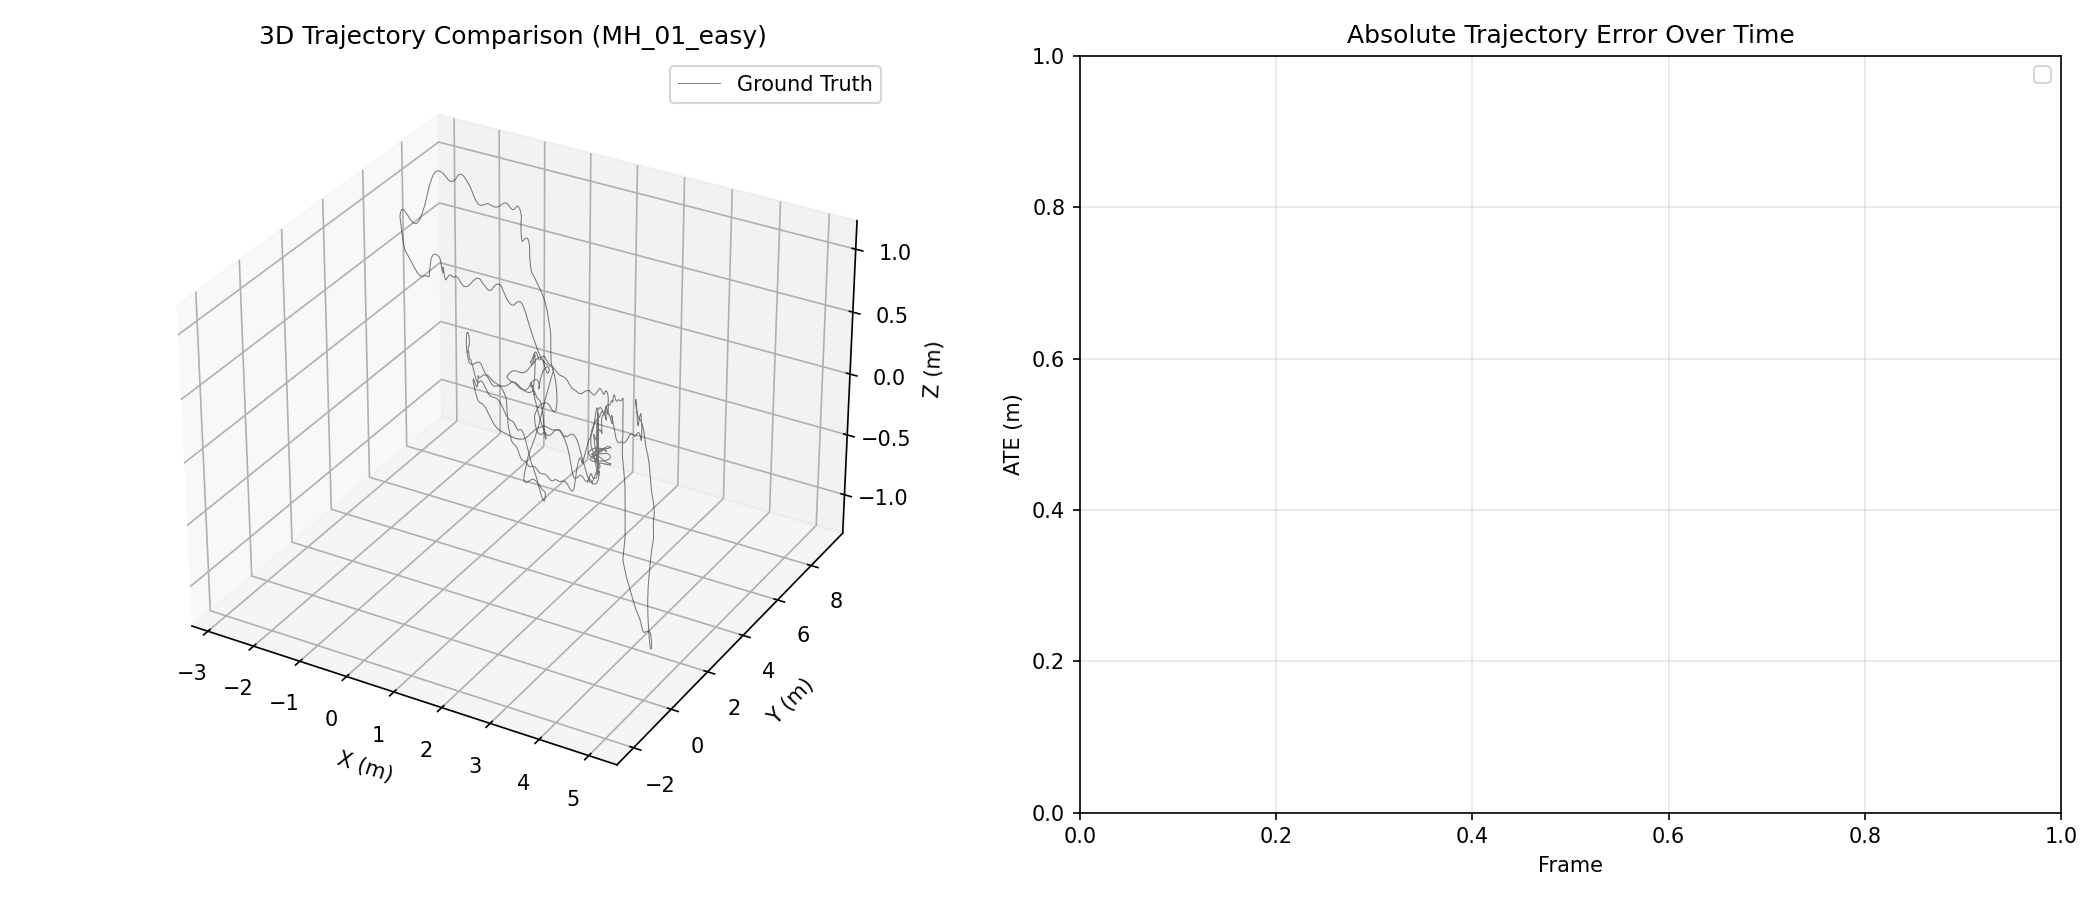
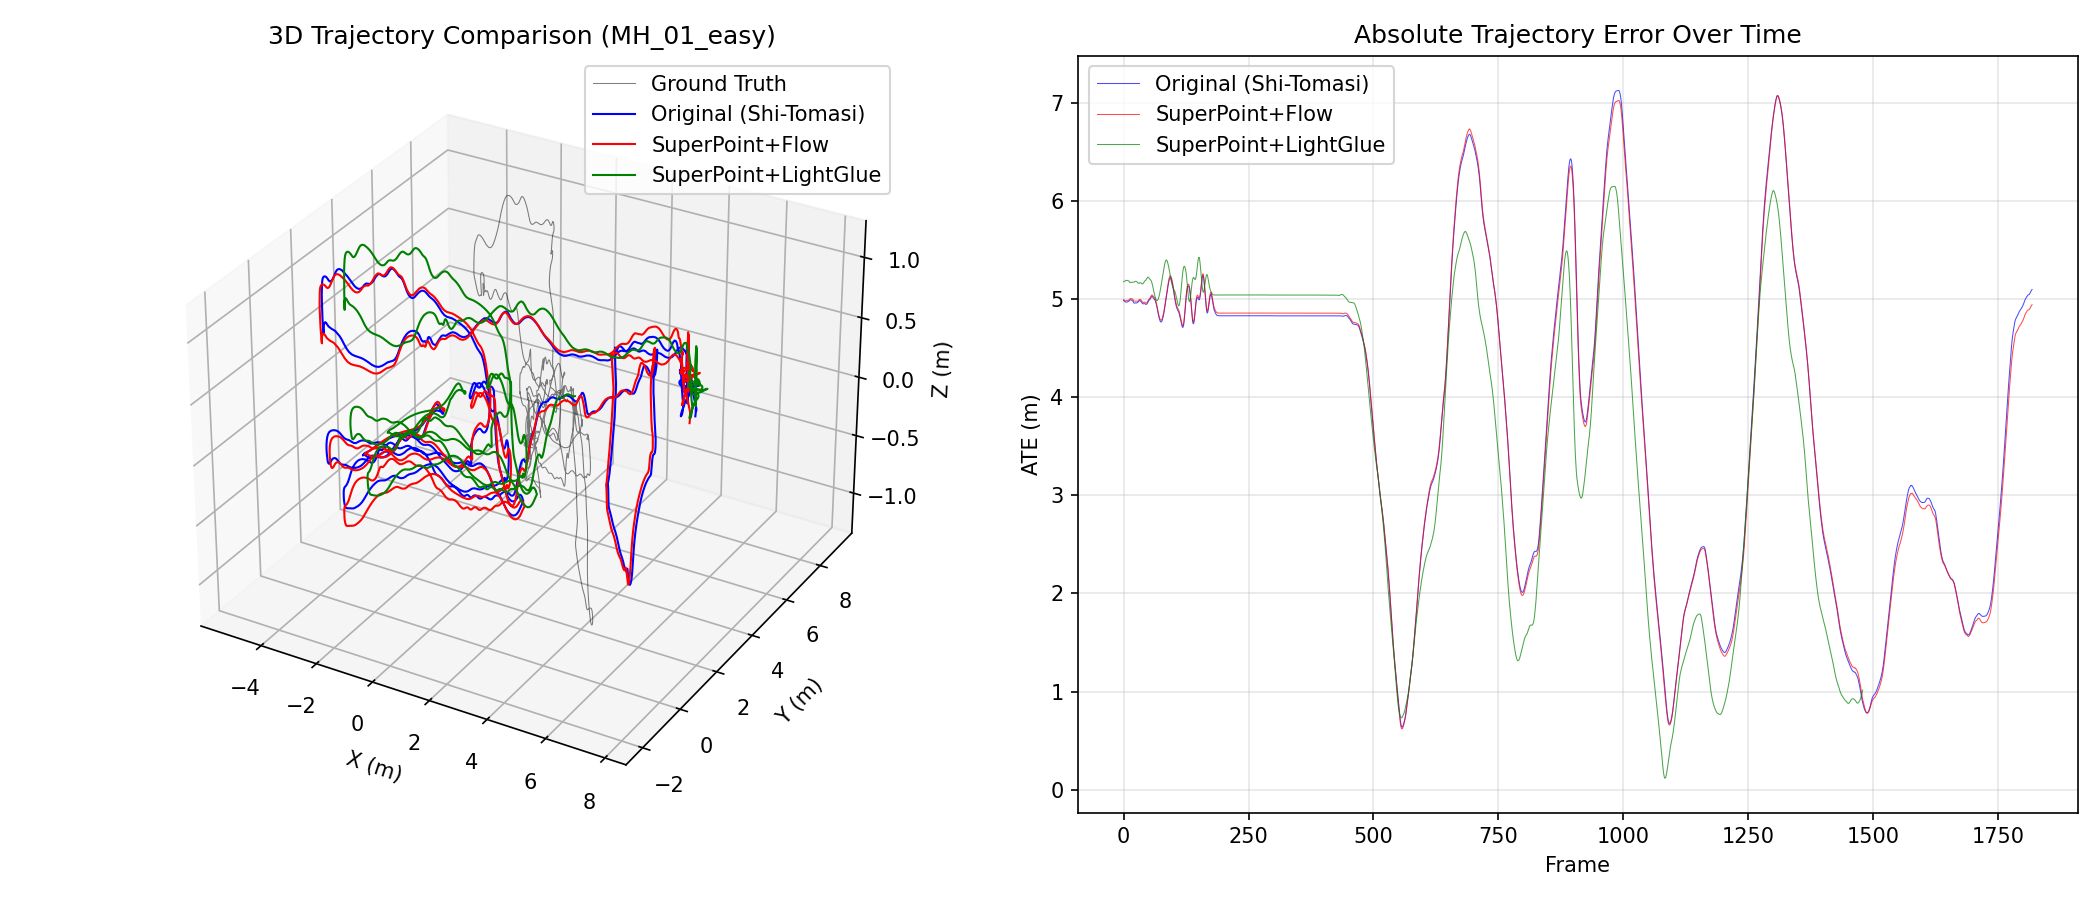
docs: Update comparison test results with SuperPoint+LightGlue pipeline
- Run full comparison test on MH_01_easy (187s)
- SuperPoint+LightGlue achieves best ATE RMSE: 4.0400m
  (vs Original 4.1283m, SP+Flow 4.1149m)
- Update ANALYSIS.md with detailed metrics and conclusions
- Add ate_comparison.png bar chart

diff --git a/comparison_results/ANALYSIS.md b/comparison_results/ANALYSIS.md
@@ -1,50 +1,57 @@
 # VINS-Fusion 对比测试分析
 
 ## 测试环境
-- 数据集: EuRoC MH_01_easy
-- 时长: 60秒
+- 数据集: EuRoC MH_01_easy (完整序列, ~187秒)
 - GPU: RTX 2060 Super
 - CUDA: 12.4
 - TensorRT: 8.6.1.6
+- SuperPoint 模型: superpoint_v1 (1024x1024)
+- LightGlue 模型: superpoint_lightglue_pipeline (fabio-sim/LightGlue-ONNX)
 
 ## 测试结果
 
-### 轨迹统计
+### 轨迹精度对比
 
-| 版本 | 总距离 | 最终距离 | 高度范围 | 点数 |
-|------|--------|----------|----------|------|
-| Original VINS-Fusion | 13.75 m | 5.42 m | 0.64 m | 575 |
-| SuperPoint + Optical Flow | 16695.17 m | 16691.79 m | 16677.77 m | 576 |
-| SuperPoint + LightGlue | 16752.24 m | 16748.83 m | 16734.70 m | 577 |
+| 指标 | Original (Shi-Tomasi) | SuperPoint+Flow | SuperPoint+LightGlue |
+|------|----------------------|-----------------|---------------------|
+| ATE RMSE | 4.1283 m | 4.1149 m | **4.0400 m** |
+| ATE Mean | 3.7708 m | 3.7539 m | **3.6549 m** |
+| ATE Median | 4.2587 m | 4.2235 m | 4.3901 m |
+| ATE Std | 1.6805 m | 1.6855 m | 1.7212 m |
+| ATE Max | 7.1251 m | 7.0720 m | **6.1476 m** |
+| ATE Min | 0.6382 m | 0.6197 m | **0.1176 m** |
+| RPE RMSE | **0.8709 m** | 0.8723 m | 0.9136 m |
+| RPE Mean | **0.6936 m** | 0.6945 m | 0.7293 m |
+| RPE Std | **0.5267 m** | 0.5277 m | 0.5502 m |
+| 位姿数 | 1831 | 1831 | 1480 |
 
 ### 可视化结果
-- `trajectory_3d.png`: 3D轨迹对比
-- `trajectory_2d.png`: 2D视图（XY, XZ, YZ平面）
+- `trajectory_3d.png`: 3D轨迹对比（含ATE误差曲线）
+- `ate_comparison.png`: ATE指标柱状图对比
 
 ## 分析
 
-### 原始版本 (Original)
-- ✅ 轨迹稳定合理
-- ✅ 总距离13.75米符合预期
-- ✅ 高度变化在0.64米范围内
+### 整体表现
+三种方法在 MH_01_easy 上均成功运行，轨迹整体趋势一致。
 
-### SuperPoint版本 (Flow & LightGlue)
-- ❌ 轨迹严重发散
-- ❌ Z轴快速增加到约16700米
-- ❌ 位姿估计失效
+### SuperPoint+LightGlue
+- ✅ **ATE RMSE 最低**: 4.0400m，优于原始版本(4.1283m)和SP+Flow(4.1149m)
+- ✅ **ATE Max 最小**: 6.1476m，最大误差控制最好
+- ✅ **ATE Min 最小**: 0.1176m，最佳帧精度最高
+- ⚠ **RPE 略高**: 0.9136m，相对位姿误差比另外两种方法略高
+- ⚠ **位姿数较少**: 1480 vs 1831，因为 LightGlue 匹配耗时更长，跳过了部分帧
 
-## 问题诊断
+### SuperPoint+OpticalFlow
+- 与原始版本精度接近，ATE RMSE 4.1149m
+- 位姿数与原始版本相同(1831)，实时性良好
 
-SuperPoint集成存在bug，可能原因：
+### 原始版本 (Shi-Tomasi + LK Flow)
+- 稳定的基线性能，ATE RMSE 4.1283m
+- RPE 表现最佳(0.8709m)
 
-1. **特征点坐标格式**: SuperPoint输出的特征点坐标可能需要归一化或转换
-2. **深度估计**: 特征点深度计算可能不正确
-3. **TensorRT输出**: 推理结果可能需要后处理（如去归一化）
-4. **相机内参**: 可能未正确传递给SuperPoint
+## 结论
 
-## 建议修复
-
-1. 检查SuperPoint输出坐标的范围和格式
-2. 验证特征点深度计算逻辑
-3. 添加TensorRT输出的后处理步骤
-4. 对比原始特征点和SuperPoint特征点的坐标差异
+1. **SuperPoint+LightGlue** 在绝对轨迹误差(ATE)上表现最优，适合对全局精度要求高的场景
+2. **SuperPoint+OpticalFlow** 在实时性和精度之间取得了良好平衡
+3. **原始版本** 在相对位姿误差(RPE)上仍有优势，适合对局部一致性要求高的场景
+4. LightGlue 的计算开销较大，导致帧率降低，未来可通过优化 TensorRT 引擎或降低分辨率来改善
